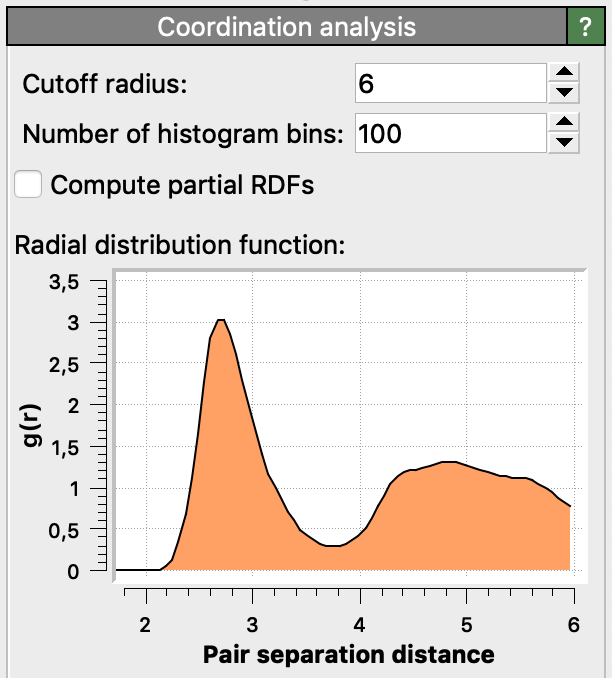
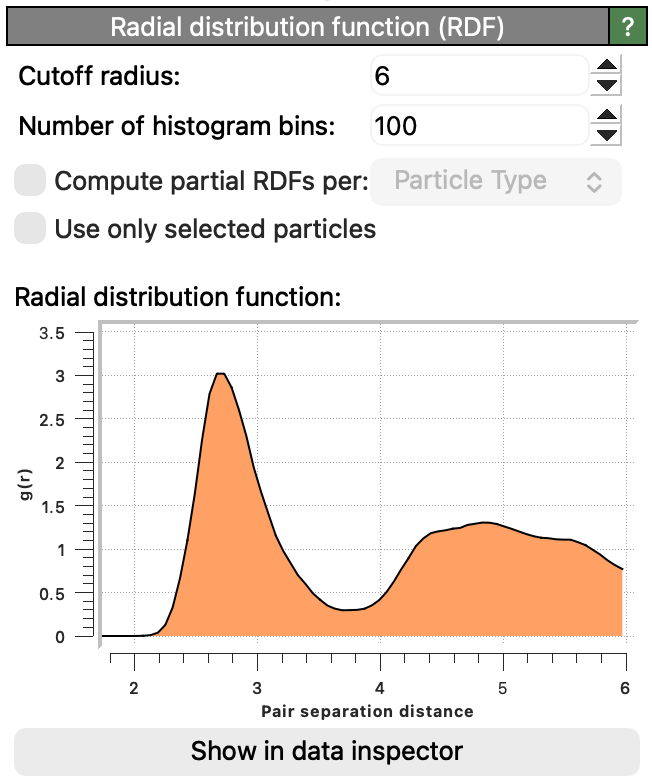
Fixes after renaming Coordination Analysis modifier and splitting of Bond Analysis modifier

Changed region(s): [[0.0, 0.0, 1.0, 1.0], [0.2173, 0.8982, 0.2484, 0.9292]]

diff --git a/src/ovito/particles/modifier/analysis/rdf/RadialDistributionFunctionModifier.cpp b/src/ovito/particles/modifier/analysis/rdf/RadialDistributionFunctionModifier.cpp
@@ -49,7 +49,7 @@ OVITO_CLASSINFO(RadialDistributionFunctionModifier, "ClassNameAlias", "Coordinat
 OVITO_CLASSINFO(RadialDistributionFunctionModifier,
                 "Description",
                 "Determine number of neighbors (coordination number) and compute the RDF.");
-OVITO_CLASSINFO(RadialDistributionFunctionModifier, "DisplayName", "Radial Distribution Function (RDF)");
+OVITO_CLASSINFO(RadialDistributionFunctionModifier, "DisplayName", "Radial distribution function (RDF)");
 OVITO_CLASSINFO(RadialDistributionFunctionModifier, "ModifierCategory", "Analysis");
 DEFINE_PROPERTY_FIELD(RadialDistributionFunctionModifier, cutoff);
 DEFINE_PROPERTY_FIELD(RadialDistributionFunctionModifier, numberOfBins);

diff --git a/doc/manual/reference/pipelines/modifiers/bond_length_distribution.rst b/doc/manual/reference/pipelines/modifiers/bond_length_distribution.rst
@@ -3,70 +3,63 @@
 Bond length distribution |ovito-pro|
 ------------------------------------
 
-.. versionadded:: 3.15.0
-
-.. image:: /images/modifiers/bond_analysis_panel.png
+.. image:: /images/modifiers/bond_length_distribution_panel.png
   :width: 35%
   :align: right
 
-This modifier computes the distribution of the **bond lengths**, i.e. the histogram of distances between pairs of 
+This modifier computes the distribution of the **bond lengths**, i.e. the histogram of distances between pairs of
 particles connected by :ref:`bonds <scene_objects.bonds>`.
 
 The modifier only includes :ref:`bonded <scene_objects.bonds>` particles in the distribution,
-whereas non-bonded pairs will be ignored. Typically, the bond topology is read from the 
+whereas non-bonded pairs will be ignored. Typically, the bond topology is read from the
 input simulation file or it needs to be generated within OVITO using the :ref:`particles.modifiers.create_bonds` modifier.
-For computing the radial distribution function (RDF) of a system (histogram of the distances between pairs of
-particles, including non-bonded ones) you can use the :ref:`particles.modifiers.radial_distribution_function` modifier instead.
 
-.. note::
+For computing the radial distribution function (RDF), i.e., the histogram of the distances between *all* pairs of
+particles, including non-bonded ones, you can use the :ref:`particles.modifiers.radial_distribution_function` modifier instead.
+The :ref:`particles.modifiers.bond_angle_distribution` modifier computes the distribution of angles formed by triplets of bonded particles.
 
-    This modifier partially replaces the functionality of the "Bond Analysis" modifier in OVITO 3.14 and earlier. See 
-    :ref:`particles.modifiers.bond_angle_distribution` for bond angle analysis.
+.. versionchanged:: 3.15.0
+  This modifier partially replaces the functionality of the "Bond Analysis" modifier found in earlier program versions.
 
 Bond length distribution
 """"""""""""""""""""""""
 
 The bond length histogram ranges from 0 to the cutoff parameter of the modifier.
-Bonds exceeding the specified length cutoff will not be counted in the bond length histogram,
-but they will still be included in the bond angle histogram.
+Bonds exceeding the specified length cutoff will not be included in the bond length distribution.
+
+The modifier outputs the bond length histogram as a :ref:`data table <scene_objects.data_table>`, which can be opened in the
+pipeline data inspector using the button :guilabel:`Show in data inspector`.
 
 Partitioned distributions
 """""""""""""""""""""""""
 
-The modifier can break the computed distributions down into several partial histograms, 
+The modifier can break the computed distribution down into several partial histograms,
 one for each combination of bond or particle types. The following partitioning modes are available:
 
 Bond type
-  Computes a separate bond angle histogram for each pair-wise combination of two bond types and a 
-  length histogram for each individual bond type.
+  Computes a separate bond length histogram for each individual bond type.
 
 Bond selection
-  Treats currently selected bonds and unselected bonds as two different kinds of bonds.
-  Computes three separate bond angle histograms: one for angles formed by two selected bonds,
-  one for angles formed by two unselected bonds, and one for angles formed by one selected and one unselected bond.
-  This option allows you to calculate the bond angle distribution only for a specific subset of bonds.
+  Treats currently selected bonds and unselected bonds as two different kinds of bonds,
+  thus computing two separate bond length histograms.
 
 Particle type
-  Computes separate bond angle histograms for each combination of three particle types and 
-  bond length histograms for each pair-wise combination of particle types. 
+  Computes separate bond length histograms for each pair-wise combination of particle types.
   If the number of particle types in the system is :math:`N`,
-  then the bond length distribution, which involves pairs of particles, will be partitioned into 
-  :math:`N (N+1)/2` partial distributions. Correspondingly, the bond angle distribution, involving triplets of particles (with the central particle discriminable),
-  gets partitioned into :math:`N^2 (N+1)/2` partial bond angle distributions.
+  then the bond length distribution, which involves pairs of particles, will be partitioned into
+  :math:`N (N+1)/2` partial distributions.
 
 Particle selection
   Treats currently selected and unselected particles as two different species.
   Computes three separate bond length histograms: one for bonds connecting two selected particles,
   one for bonds connecting two unselected particles, and one for bonds connecting one selected and one unselected particle.
-  Accordingly, the bond angle histogram is partitioned into six partial histograms, one for each triplet combination 
-  of selected and unselected particles.
-  
+
 Time-averaged distributions
 """""""""""""""""""""""""""
 
-The *Bond analysis* modifier calculates the instantaneous bond length and angle distributions for 
-just one simulation frame at a time. You can subsequently apply the :ref:`particles.modifiers.time_averaging` modifier to reduce 
-the instantaneous distributions to a single mean distribution by averaging the 
+The *Bond length distribution* modifier calculates the instantaneous bond length distribution for
+just one simulation frame at a time. You can subsequently apply the :ref:`particles.modifiers.time_averaging` modifier to reduce
+the instantaneous distributions to a single mean distribution by averaging the
 output :ref:`data table <scene_objects.data_table>` over all frames of the loaded MD trajectory.
 
 .. seealso::

diff --git a/doc/manual/reference/pipelines/modifiers/bond_angle_distribution.rst b/doc/manual/reference/pipelines/modifiers/bond_angle_distribution.rst
@@ -3,43 +3,38 @@
 Bond angle distribution |ovito-pro|
 -----------------------------------
 
-.. versionadded:: 3.15.0
-
-.. image:: /images/modifiers/bond_analysis_panel.png
+.. image:: /images/modifiers/bond_angle_distribution_panel.png
   :width: 35%
   :align: right
 
 This modifier computes thedistribution of the **bond angles** formed by pairs of :ref:`bonds <scene_objects.bonds>`
 meeting at the same particle.
 
-The modifier only includes :ref:`bonded <scene_objects.bonds>` particles in these distributions,
-whereas non-bonded pairs will be ignored. Typically, the bond topology is read from the 
+The modifier only includes :ref:`bonded <scene_objects.bonds>` particles in the distribution,
+whereas non-bonded pairs will be ignored. Typically, the bond topology is read from the
 input simulation file or it needs to be generated within OVITO using the :ref:`particles.modifiers.create_bonds` modifier.
 
-.. note::
-
-    This modifier partially replaces the functionality of the "Bond Analysis" modifier in OVITO 3.14 and earlier. See 
-    :ref:`particles.modifiers.bond_length_distribution` for bond length analysis.
+.. versionchanged:: 3.15.0
+  This modifier partially replaces the functionality of the "Bond Analysis" modifier found in earlier program versions.
 
 Bond angle distribution
 """""""""""""""""""""""
 
-The computed histogram counts in equisized bins the angles formed by pairs of bonds meeting at the same particle. 
-Bond angles :math:`\theta` may range from 0 to 180 degrees. The modifier option :guilabel:`Use cosines of angles` switches the 
+The computed histogram counts in equisized bins the angles formed by pairs of bonds meeting at the same particle.
+Bond angles :math:`\theta` may range from 0 to 180 degrees. The modifier option :guilabel:`Use cosines of angles` switches the
 x-axis of the histogram to the range [-1, +1], now computing the distribution of :math:`\cos{\theta}` values in the system.
 
-The modifier outputs the bond angle histogram as a :ref:`data table <scene_objects.data_table>`, which can be opened in the 
+The modifier outputs the bond angle histogram as a :ref:`data table <scene_objects.data_table>`, which can be opened in the
 pipeline data inspector using the button :guilabel:`Show in data inspector`.
 
 Partitioned distributions
 """""""""""""""""""""""""
 
-The modifier can break the computed distributions down into several partial histograms, 
+The modifier can break the computed distribution down into several partial histograms,
 one for each combination of bond or particle types. The following partitioning modes are available:
 
 Bond type
-  Computes a separate bond angle histogram for each pair-wise combination of two bond types and a 
-  length histogram for each individual bond type.
+  Computes a separate bond angle histogram for each pair-wise combination of two bond types.
 
 Bond selection
   Treats currently selected bonds and unselected bonds as two different kinds of bonds.
@@ -48,26 +43,22 @@ Bond selection
   This option allows you to calculate the bond angle distribution only for a specific subset of bonds.
 
 Particle type
-  Computes separate bond angle histograms for each combination of three particle types and 
-  bond length histograms for each pair-wise combination of particle types. 
+  Computes separate bond angle histograms for each combination of three particle types.
   If the number of particle types in the system is :math:`N`,
-  then the bond length distribution, which involves pairs of particles, will be partitioned into 
-  :math:`N (N+1)/2` partial distributions. Correspondingly, the bond angle distribution, involving triplets of particles (with the central particle discriminable),
-  gets partitioned into :math:`N^2 (N+1)/2` partial bond angle distributions.
+  then the bond angle distribution, involving triplets of particles (with the central particle discriminable),
+  will be partitioned into :math:`N^2 (N+1)/2` partial bond angle distributions.
 
 Particle selection
   Treats currently selected and unselected particles as two different species.
-  Computes three separate bond length histograms: one for bonds connecting two selected particles,
-  one for bonds connecting two unselected particles, and one for bonds connecting one selected and one unselected particle.
-  Accordingly, the bond angle histogram is partitioned into six partial histograms, one for each triplet combination 
+  The bond angle histogram will be partitioned into six partial histograms, one for each triplet combination
   of selected and unselected particles.
-  
+
 Time-averaged distributions
 """""""""""""""""""""""""""
 
-The *Bond analysis* modifier calculates the instantaneous bond length and angle distributions for 
-just one simulation frame at a time. You can subsequently apply the :ref:`particles.modifiers.time_averaging` modifier to reduce 
-the instantaneous distributions to a single mean distribution by averaging the 
+The *Bond angle distribution* modifier calculates the instantaneous bond angle distribution for
+just one simulation frame at a time. You can subsequently apply the :ref:`particles.modifiers.time_averaging` modifier to reduce
+the instantaneous distributions to a single mean distribution by averaging the
 output :ref:`data table <scene_objects.data_table>` over all frames of the loaded MD trajectory.
 
 .. seealso::

diff --git a/doc/manual/new_features.rst b/doc/manual/new_features.rst
@@ -16,8 +16,8 @@ Version 3.15.0 (dd-mm-2026)
 - New modifier: :ref:`particles.modifiers.edit_types`
 - New modifier :ref:`particles.modifiers.edit_simulation_cell`
 - New modifier :ref:`particles.modifiers.bond_order`
-- Split :ref:`particles.modifiers.bond_analysis` modifier functionality in :ref:`particles.modifiers.bond_angle_distribution` and :ref:`particles.modifiers.bond_length_distribution` modifers. 
-  The old :ref:`particles.modifiers.bond_analysis` modifier will remain available for backwards compatibility.
+- Split *Bond analysis* functionality into :ref:`particles.modifiers.bond_angle_distribution` and :ref:`particles.modifiers.bond_length_distribution` modifers.
+  The old modifier will remain available for backwards compatibility.
 - Implement :ref:`particles.modifiers.assign_color` modifier for lines
 - Rename Coordination Analysis Modifier to :ref:`particles.modifiers.radial_distribution_function` - maintaining backwards compatibility
 - New mode "Covalent Radius" for :ref:`particles.modifiers.create_bonds` modifer
@@ -34,6 +34,7 @@ Version 3.15.0 (dd-mm-2026)
 - Display rendering issues (e.g. exceeding the maximum number of particles) in the GUI using an indicator in the viewport windows
 - Import/export modifiers as text snippets via context menu in the pipeline editor
 - Include Software Bill of Materials (SBOM) in OVITO installers to document third-party software components used
+- Fixed broken "partition by bond/particle selection" modes in *Bond Analysis* modifier
 
 .. sidebar::
 

diff --git a/doc/manual/reference/pipelines/modifiers/radial_distribution_function.rst b/doc/manual/reference/pipelines/modifiers/radial_distribution_function.rst
@@ -1,6 +1,6 @@
 .. _particles.modifiers.radial_distribution_function:
 
-Radial Distribution Function (RDF)
+Radial distribution function (RDF)
 ----------------------------------
 
 .. image:: /images/modifiers/coordination_analysis_panel.png
@@ -81,8 +81,7 @@ Bond length distribution
 """"""""""""""""""""""""
 
 Furthermore, OVITO provides another analysis tool for computing the bond length distribution specifically
-for *bonded* pairs of particles: the :ref:`particles.modifiers.bond_analysis` modifier.
-This modifier can additionally compute the distribution of bond angles formed by triplets of particles.
+for *bonded* pairs of particles: the :ref:`particles.modifiers.bond_length_distribution` modifier.
 
 .. seealso::
 

diff --git a/doc/manual/reference/pipelines/data_objects/bonds.rst b/doc/manual/reference/pipelines/data_objects/bonds.rst
@@ -34,8 +34,7 @@ The ``Topology`` property, always present in bond datasets, defines the actual c
 If particles are deleted from the system, OVITO automatically updates these indices to maintain consistency with the particles.
 
 You can inspect all bond properties using the **Bonds** tab in the :ref:`data inspector panel <data_inspector.bonds>` beneath the viewport(s).
-The :ref:`particles.modifiers.bond_analysis` modifier is a useful tool for computing statistical properties of the bond network,
-such as bond length or bond angle histograms.
+The :ref:`particles.modifiers.bond_length_distribution` and :ref:`particles.modifiers.bond_angle_distribution` modifiers are useful tools for computing statistical properties of the bond network.
 
 Additional bond generation tools in OVITO include the :ref:`particles.modifiers.voronoi_analysis` modifier, which creates bonds
 between nearest-neighbor particles. Bonds and their properties can also be manipulated using general-purpose modifiers such as:

diff --git a/doc/manual/reference/pipelines/modifiers/index.rst b/doc/manual/reference/pipelines/modifiers/index.rst
@@ -149,7 +149,6 @@ combine several modifiers to accomplish more complex tasks.
   ambient_occlusion
   assign_color
   atomic_strain
-  bond_analysis
   bond_angle_distribution
   bond_length_distribution
   bond_order
@@ -164,7 +163,6 @@ combine several modifiers to accomplish more complex tasks.
   common_neighbor_analysis
   compute_property
   construct_surface_mesh
-  radial_distribution_function
   coordination_polyhedra
   create_bonds
   create_isosurface
@@ -189,6 +187,7 @@ combine several modifiers to accomplish more complex tasks.
   manual_selection
   polyhedral_template_matching
   python_script
+  radial_distribution_function
   render_lammps_regions
   show_periodic_images
   scatter_plot